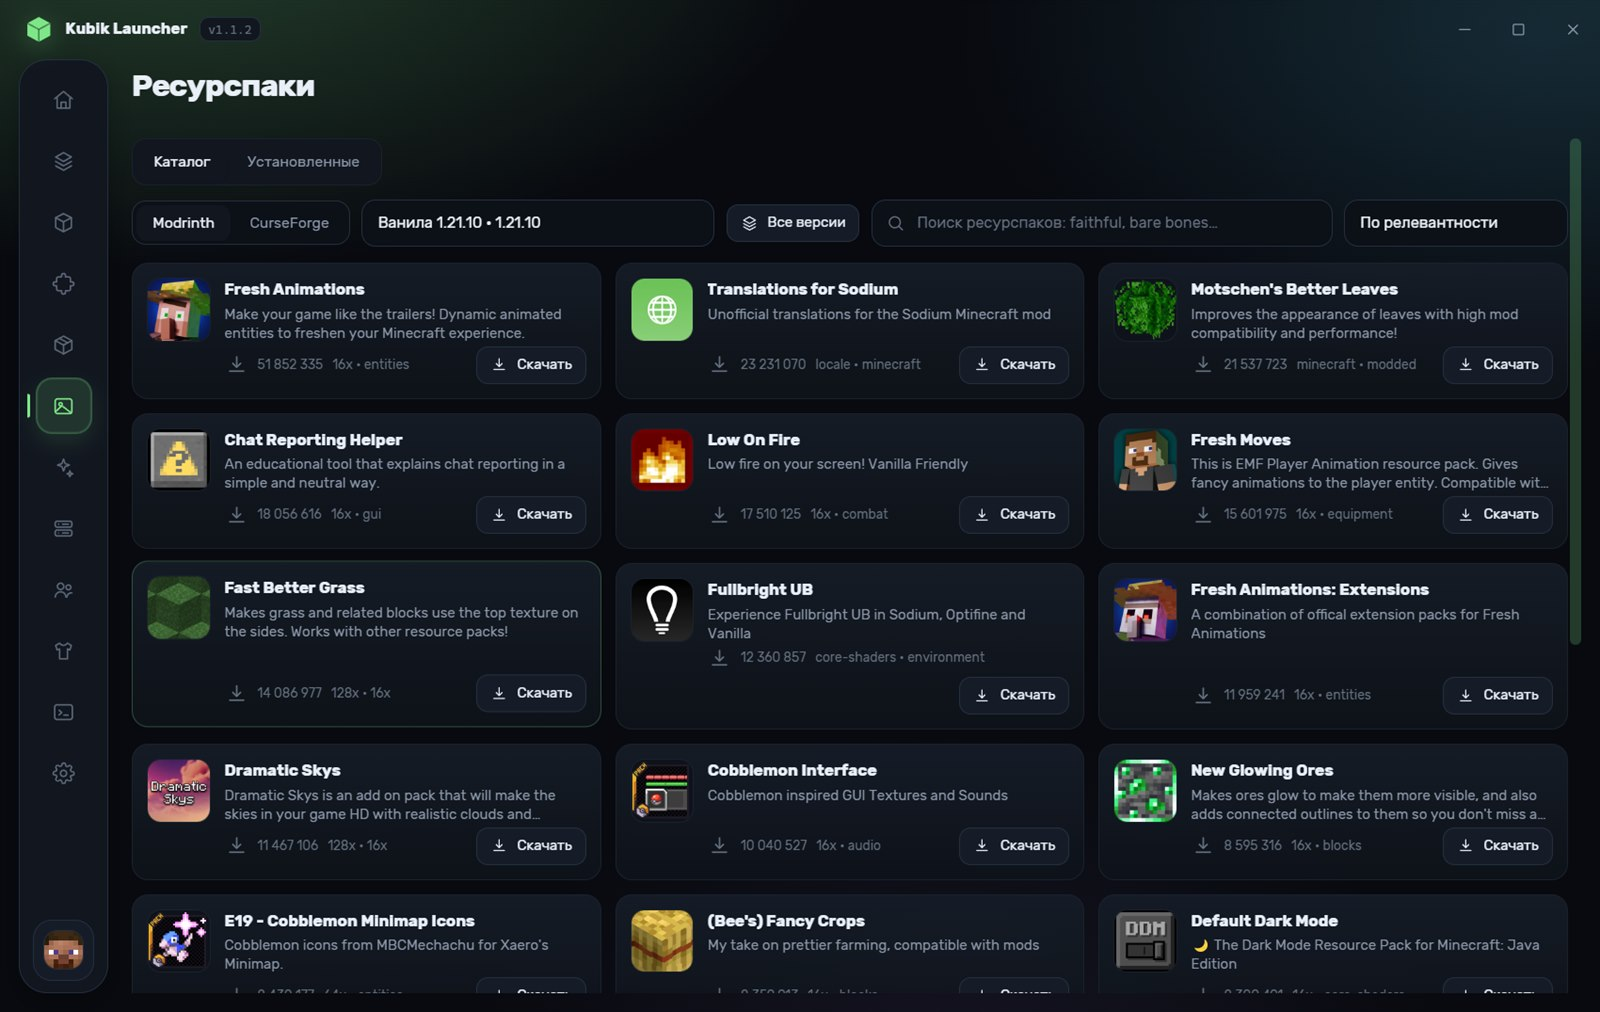
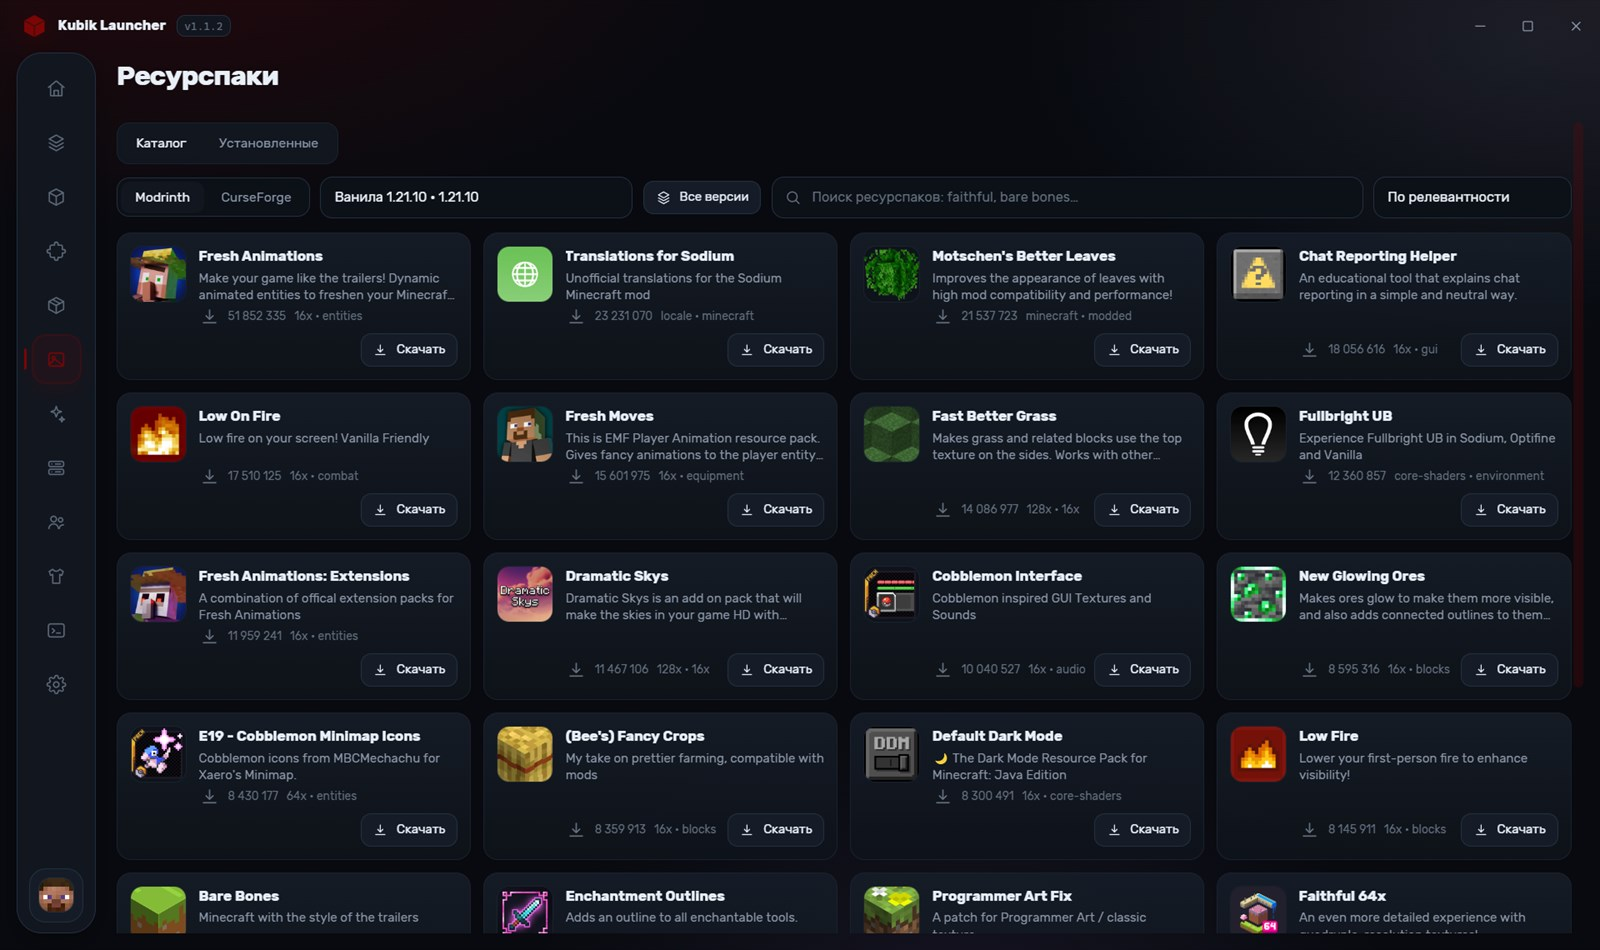
Обновил скриншоты README: окно 1600 px, дождался загрузки каталога

diff --git a/main.js b/main.js
@@ -220,9 +220,10 @@ function showWindow() {
 }
 
 function createWindow() {
+  const shotSize = /^[0-9]+x[0-9]+$/.test(process.env.KUBIK_WINDOW || '') ? process.env.KUBIK_WINDOW.split('x').map(Number) : null;
   mainWindow = new BrowserWindow({
-    width: 1360,
-    height: 860,
+    width: shotSize ? shotSize[0] : 1360,
+    height: shotSize ? shotSize[1] : 860,
     minWidth: 1080,
     minHeight: 700,
     show: false,
@@ -325,7 +326,7 @@ function createWindow() {
             if (ready) break;
             await new Promise((resolve) => setTimeout(resolve, 400));
           }
-          await new Promise((resolve) => setTimeout(resolve, 900));
+          await new Promise((resolve) => setTimeout(resolve, 2600));
           const image = await mainWindow.webContents.capturePage();
           fs.writeFileSync(path.join(dir, `shot-${route}.png`), image.toPNG());
           console.log('[shot]', route);
